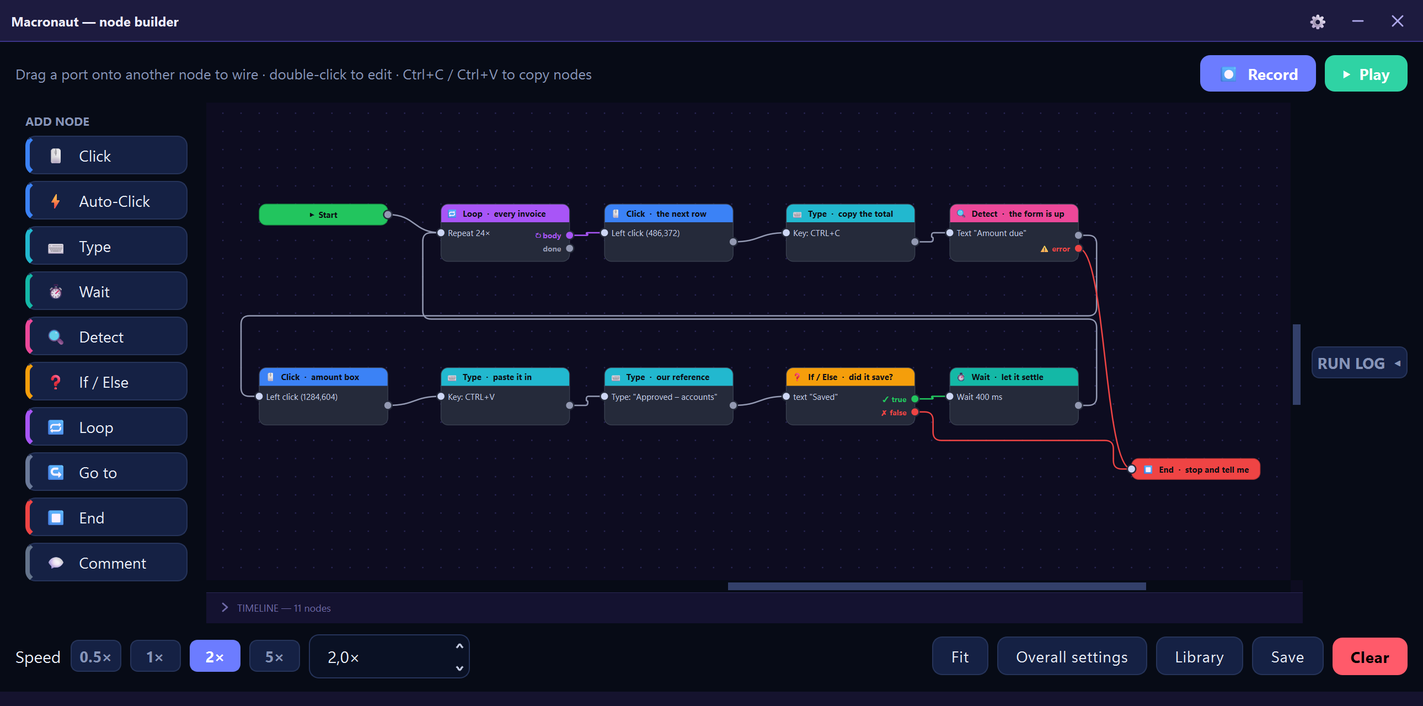
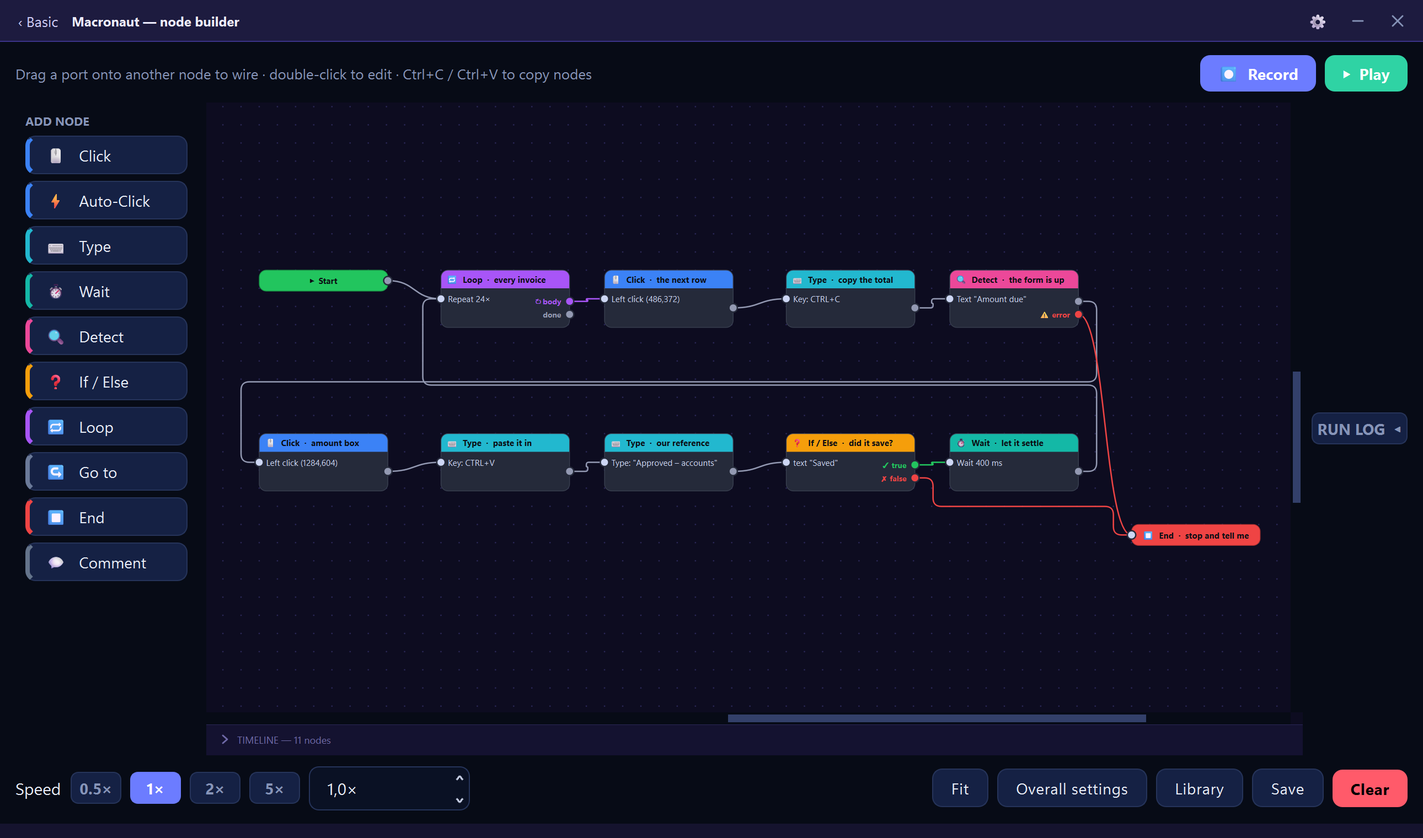
site: rebuild for 2.3.0

diff --git a/index.html b/index.html
@@ -23,7 +23,7 @@
   "name": "Macronaut",
   "applicationCategory": "UtilitiesApplication",
   "operatingSystem": "Windows 10, Windows 11",
-  "softwareVersion": "2.2.0",
+  "softwareVersion": "2.3.0",
   "url": "https://gtjevptje.github.io/Macronaut/",
   "downloadUrl": "https://github.com/gtjevptje/Macronaut/releases/latest/download/Macronaut.exe",
   "description": "Auto clicker and visual macro recorder for Windows. Records clicks and keystrokes into an editable flow, and can watch the screen to decide what to do next.",
@@ -37,7 +37,7 @@
 {
   "@context": "https://schema.org",
   "@type": "FAQPage",
-  "mainEntity": [{"@type": "Question", "name": "Is the free version a trial?", "acceptedAnswer": {"@type": "Answer", "text": "No. It does not expire, it has no watermark, and it does not nag you. Clicking, typing, dragging, scrolling and recording are free permanently, in flows of up to 20 steps. Pro adds the steps that watch the screen and branch on what they find."}},{"@type": "Question", "name": "Do I have to build everything myself?", "acceptedAnswer": {"@type": "Answer", "text": "No. It arrives with 5 automations already built and waiting in the library — an auto-clicker, a clicker that stops after a set number of clicks, one that clicks once every 30 seconds to keep a session awake, one that types a block of text for you, and one that presses a key over and over. None of them need setting up: open one and press Play. Each carries a note on the canvas saying what it does and which part to change."}},{"@type": "Question", "name": "How is this different from AutoHotkey?", "acceptedAnswer": {"@type": "Answer", "text": "AutoHotkey is a scripting language, and a good one — if you are willing to learn it. Macronaut is the same idea without the code: you record what you do, or drag steps onto a canvas and wire them together. The trade is real. AutoHotkey will do things Macronaut cannot; Macronaut you can use this afternoon. There is a side-by-side comparison, including what AutoHotkey still does better."}},{"@type": "Question", "name": "Will it work in a game?", "acceptedAnswer": {"@type": "Answer", "text": "Often, yes — but read the warning further down this page first, because many online games ban automation and can ban your account for it. Technically: some games ignore ordinary injected input, so Macronaut has three input backends, the lowest of which is a kernel driver that looks like a real keyboard. If one does not work, switch to the next."}},{"@type": "Question", "name": "Does it need an internet connection?", "acceptedAnswer": {"@type": "Answer", "text": "Only to check for updates, which you can turn off. Automations run entirely on your machine. Your licence key is verified offline — activating does not tell us anything, because there is nothing for it to tell."}},{"@type": "Question", "name": "What do you collect?", "acceptedAnswer": {"@type": "Answer", "text": "Nothing, unless you opt in to crash reports — and those contain the error, the version, your Windows version and which step was running. Never your scripts, your keystrokes, anything on your screen, or your name. Windows account names are stripped out of file paths before anything is even written to disk."}},{"@type": "Question", "name": "Can I use my licence on more than one computer?", "acceptedAnswer": {"@type": "Answer", "text": "Yes, on every computer you own. There is no activation limit and no machine fingerprinting — those mostly succeed at punishing the honest customer who bought a new laptop. Your e-mail address is inside the key, so please do not post it publicly."}},{"@type": "Question", "name": "Is it a subscription?", "acceptedAnswer": {"@type": "Answer", "text": "No. One payment, and that version and every future update are yours. If that ever changes it will change for new customers, not for you."}},{"@type": "Question", "name": "Why does Windows say it is unsafe?", "acceptedAnswer": {"@type": "Answer", "text": "Because it is not code-signed yet. SmartScreen warns about any new executable it has not seen before, signed or not, and a signing certificate has both a real cost and a procurement lead time. Click “More info” then “Run anyway”. Antivirus software is also occasionally suspicious of anything that sends keystrokes, which is unavoidable for a tool whose entire job is sending keystrokes."}},{"@type": "Question", "name": "What happens to my flows if I do not buy Pro?", "acceptedAnswer": {"@type": "Answer", "text": "Nothing. They stay on your disk, they open, they edit and they save. A flow that uses Pro steps simply will not run until it is licensed — you never lose work, and you can always take the Pro steps out and run the rest."}},{"@type": "Question", "name": "Is there a refund?", "acceptedAnswer": {"@type": "Answer", "text": "Yes. If it does not do what this page says it does, e-mail gerbenvanpoucke0@gmail.com and I will refund you. It is a one-person operation, so you will be talking to the person who wrote it."}},{"@type": "Question", "name": "How do I get in touch?", "acceptedAnswer": {"@type": "Answer", "text": "gerbenvanpoucke0@gmail.com. That is also where a lost licence key gets resent, and where a bug report actually reaches somebody — it is one person, not a ticket queue."}},{"@type": "Question", "name": "What are the system requirements?", "acceptedAnswer": {"@type": "Answer", "text": "Windows 10 or 11, 64-bit. Nothing else — no Python, no .NET, no runtime, no installer. It is a single 78 MB file that you can put anywhere and delete when you are done."}}]
+  "mainEntity": [{"@type": "Question", "name": "I just want an auto-clicker. Do I have to learn the node thing?", "acceptedAnswer": {"@type": "Answer", "text": "No. Macronaut opens on Basic, which is a plain auto-clicker: set the interval, pick a button, choose how many times, press Start. No nodes, no wires, no diagram. The canvas is behind an Advanced link if you ever want it, and Macronaut reopens on whichever of the two you closed it on. Basic is free, permanently."}},{"@type": "Question", "name": "Is the free version a trial?", "acceptedAnswer": {"@type": "Answer", "text": "No. It does not expire, it has no watermark, and it does not nag you. The whole Basic auto-clicker is free and always will be. Clicking, typing, dragging, scrolling and recording are free permanently too, in flows of up to 20 steps. Pro adds the steps that watch the screen and branch on what they find."}},{"@type": "Question", "name": "Do I have to build everything myself?", "acceptedAnswer": {"@type": "Answer", "text": "No. It arrives with 5 automations already built and waiting in the library — an auto-clicker, a clicker that stops after a set number of clicks, one that clicks once every 30 seconds to keep a session awake, one that types a block of text for you, and one that presses a key over and over. None of them need setting up: open one and press Play. Each carries a note on the canvas saying what it does and which part to change."}},{"@type": "Question", "name": "How is this different from AutoHotkey?", "acceptedAnswer": {"@type": "Answer", "text": "AutoHotkey is a scripting language, and a good one — if you are willing to learn it. Macronaut is the same idea without the code: you record what you do, or drag steps onto a canvas and wire them together. The trade is real. AutoHotkey will do things Macronaut cannot; Macronaut you can use this afternoon. There is a side-by-side comparison, including what AutoHotkey still does better."}},{"@type": "Question", "name": "Will it work in a game?", "acceptedAnswer": {"@type": "Answer", "text": "Often, yes — but read the warning further down this page first, because many online games ban automation and can ban your account for it. Technically: some games ignore ordinary injected input, so Macronaut has three input backends, the lowest of which is a kernel driver that looks like a real keyboard. If one does not work, switch to the next."}},{"@type": "Question", "name": "Does it need an internet connection?", "acceptedAnswer": {"@type": "Answer", "text": "Only to check for updates, which you can turn off. Automations run entirely on your machine. Your licence key is verified offline — activating does not tell us anything, because there is nothing for it to tell."}},{"@type": "Question", "name": "What do you collect?", "acceptedAnswer": {"@type": "Answer", "text": "Nothing, unless you opt in to crash reports — and those contain the error, the version, your Windows version and which step was running. Never your scripts, your keystrokes, anything on your screen, or your name. Windows account names are stripped out of file paths before anything is even written to disk."}},{"@type": "Question", "name": "Can I use my licence on more than one computer?", "acceptedAnswer": {"@type": "Answer", "text": "Yes, on every computer you own. There is no activation limit and no machine fingerprinting — those mostly succeed at punishing the honest customer who bought a new laptop. Your e-mail address is inside the key, so please do not post it publicly."}},{"@type": "Question", "name": "Is it a subscription?", "acceptedAnswer": {"@type": "Answer", "text": "No. One payment, and that version and every future update are yours. If that ever changes it will change for new customers, not for you."}},{"@type": "Question", "name": "Why does Windows say it is unsafe?", "acceptedAnswer": {"@type": "Answer", "text": "Because it is not code-signed yet. SmartScreen warns about any new executable it has not seen before, signed or not, and a signing certificate has both a real cost and a procurement lead time. Click “More info” then “Run anyway”. Antivirus software is also occasionally suspicious of anything that sends keystrokes, which is unavoidable for a tool whose entire job is sending keystrokes."}},{"@type": "Question", "name": "What happens to my flows if I do not buy Pro?", "acceptedAnswer": {"@type": "Answer", "text": "Nothing. They stay on your disk, they open, they edit and they save. A flow that uses Pro steps simply will not run until it is licensed — you never lose work, and you can always take the Pro steps out and run the rest."}},{"@type": "Question", "name": "Is there a refund?", "acceptedAnswer": {"@type": "Answer", "text": "Yes. If it does not do what this page says it does, e-mail gerbenvanpoucke0@gmail.com and I will refund you. It is a one-person operation, so you will be talking to the person who wrote it."}},{"@type": "Question", "name": "How do I get in touch?", "acceptedAnswer": {"@type": "Answer", "text": "gerbenvanpoucke0@gmail.com. That is also where a lost licence key gets resent, and where a bug report actually reaches somebody — it is one person, not a ticket queue."}},{"@type": "Question", "name": "What are the system requirements?", "acceptedAnswer": {"@type": "Answer", "text": "Windows 10 or 11, 64-bit. Nothing else — no Python, no .NET, no runtime, no installer. It is a single 78 MB file that you can put anywhere and delete when you are done."}}]
 }
 </script>
 
@@ -142,6 +142,22 @@ li.later em{font-style:normal; opacity:.8}
 .shot{margin:52px auto 0; max-width:100%; height:auto; border:1px solid var(--border);
   border-radius:16px; display:block; box-shadow:0 24px 70px rgba(0,0,0,.55);
   background:var(--panel)}
+/* A shot sitting inside a card rather than under the hero: it is illustrating
+   the paragraph beside it, so it wants a shadow that does not fight the card's
+   own edge. Capped in height because the Basic face is a tall, narrow window
+   and at full width it would tower over everything around it. */
+.shot-inline{margin:0; border-radius:10px; box-shadow:0 8px 24px rgba(0,0,0,.35);
+  max-height:340px; width:auto}
+/* The one card carrying a screenshot spans the grid. Left in a normal cell it
+   made its own row twice as tall as the card beside it, which then sat mostly
+   empty — grid rows match heights, so a tall cell is paid for by its
+   neighbour. */
+.card-wide{grid-column:1/-1; display:flex; gap:26px; align-items:center}
+.card-wide > div{flex:1 1 340px; min-width:0}
+@media (max-width:700px){
+  .card-wide{flex-direction:column; align-items:stretch}
+  .shot-inline{max-height:none; width:100%}
+}
 
 /* ── Sections ────────────────────────────────────────────────────── */
 section{padding:66px 0; border-top:1px solid var(--border)}
@@ -217,9 +233,10 @@ footer .row nav{margin-left:auto; display:flex; gap:20px; flex-wrap:wrap}
 
 <div class="hero wrap">
   <h1>Automate anything on Windows.<br>No code.</h1>
-  <p class="lead">Macronaut records your clicks and keystrokes — or you draw the
-  flow yourself — and then it does the work. In any Windows app, including the
-  ones with no API, no scripting and no plugins.</p>
+  <p class="lead">It opens as a plain <b>auto-clicker</b> — set the interval,
+  press Start. When you need more, one click turns it into a canvas where you
+  record your clicks and keystrokes, or draw the flow yourself. In any Windows
+  app, including the ones with no API, no scripting and no plugins.</p>
   <div class="cta">
     <a class="btn btn-primary btn-lg" href="https://github.com/gtjevptje/Macronaut/releases/latest/download/Macronaut.exe">Download free for Windows</a>
     <a class="btn btn-lg" href="#buy">See what Pro adds</a>
@@ -236,7 +253,7 @@ footer .row nav{margin-left:auto; display:flex; gap:20px; flex-wrap:wrap}
   <p class="under heads-up">Windows will say <b>“Windows protected your PC”</b>
   on first run. It says that for any app without a signing certificate —
   click <b>More info</b>, then <b>Run anyway</b>.</p>
-  <img class="shot" src="assets/hero.png" width="2580" height="1280"
+  <img class="shot" src="assets/hero.png" width="2580" height="1520"
        alt="Macronaut's canvas: a flow that loops over 24 invoices — clicking a row,
             copying the total, waiting for the form to appear, pasting it back in,
             then checking it saved before moving on">
@@ -245,9 +262,11 @@ footer .row nav{margin-left:auto; display:flex; gap:20px; flex-wrap:wrap}
 <section id="what">
   <div class="wrap">
     <h2>If you do the same clicks twenty times a day</h2>
-    <p class="sub">That is the thing this is for. You build the automation as a
-    <b>flow</b> — boxes for the things it does, wires for the order they happen
-    in. There is no scripting language to learn, and nothing to install.</p>
+    <p class="sub">That is the thing this is for. If it really is just clicks,
+    the screen it opens on is all you need. If the job has steps to it, you
+    build it as a <b>flow</b> — boxes for the things it does, wires for the
+    order they happen in. Either way there is no scripting language to learn,
+    and nothing to install.</p>
     <p class="sub">And it arrives with 5 automations already built,
     so the first one you run is one you did not have to make.</p>
     <div class="grid">
@@ -276,6 +295,23 @@ footer .row nav{margin-left:auto; display:flex; gap:20px; flex-wrap:wrap}
     <p class="sub">Everything here is in the app today — this is a description,
     not a roadmap.</p>
     <div class="grid">
+      <div class="card card-wide">
+        <div>
+          <h3>Two faces, and you pick</h3>
+          <p><b>Basic</b> is an auto-clicker and nothing else: interval, mouse
+          button, how many times, where. That is the whole screen, and it is
+          free permanently.</p>
+          <p><b>Advanced</b> is the node canvas, behind one link. Macronaut
+          reopens on whichever of the two you closed it on, and each remembers
+          its own size and place on screen — Basic parked in a corner beside
+          the window it is clicking, Advanced as big as you like.</p>
+        </div>
+        <img class="shot shot-inline" src="assets/basic.png"
+             width="1000" height="1086" loading="lazy"
+             alt="Macronaut's Basic face: click interval in hours, minutes,
+                  seconds and milliseconds, a left/right mouse button choice,
+                  repeat a set number of times or until stopped, cursor position,
+                  and a green Start button"></div>
       <div class="card">
         <h3>A canvas, not a script</h3>
         <p>Click, Move, Drag, Scroll, Type text, Key press, Wait, Detect,
@@ -321,6 +357,7 @@ footer .row nav{margin-left:auto; display:flex; gap:20px; flex-wrap:wrap}
         <div class="name">Free</div>
         <div class="price">€0<span> · forever</span></div>
         <ul>
+          <li><b>The whole Basic auto-clicker</b></li>
           <li>Click, move, drag and scroll</li>
           <li>Type text and press keys, including chords</li>
           <li>Record what you do into an editable flow</li>
@@ -360,7 +397,8 @@ footer .row nav{margin-left:auto; display:flex; gap:20px; flex-wrap:wrap}
 <section id="faq">
   <div class="wrap">
     <h2>Questions</h2>
-    <div class="faq"><details><summary>Is the free version a trial?</summary><div class="body"><p>No. It does not expire, it has no watermark, and it does not nag you. Clicking, typing, dragging, scrolling and recording are free permanently, in flows of up to 20 steps. Pro adds the steps that watch the screen and branch on what they find.</p></div></details>
+    <div class="faq"><details><summary>I just want an auto-clicker. Do I have to learn the node thing?</summary><div class="body"><p>No. Macronaut opens on Basic, which is a plain auto-clicker: set the interval, pick a button, choose how many times, press Start. No nodes, no wires, no diagram. The canvas is behind an Advanced link if you ever want it, and Macronaut reopens on whichever of the two you closed it on. Basic is free, permanently.</p></div></details>
+<details><summary>Is the free version a trial?</summary><div class="body"><p>No. It does not expire, it has no watermark, and it does not nag you. The whole Basic auto-clicker is free and always will be. Clicking, typing, dragging, scrolling and recording are free permanently too, in flows of up to 20 steps. Pro adds the steps that watch the screen and branch on what they find.</p></div></details>
 <details><summary>Do I have to build everything myself?</summary><div class="body"><p>No. It arrives with 5 automations already built and waiting in the library — an auto-clicker, a clicker that stops after a set number of clicks, one that clicks once every 30 seconds to keep a session awake, one that types a block of text for you, and one that presses a key over and over. None of them need setting up: open one and press Play. Each carries a note on the canvas saying what it does and which part to change.</p></div></details>
 <details><summary>How is this different from AutoHotkey?</summary><div class="body"><p>AutoHotkey is a scripting language, and a good one — if you are willing to learn it. Macronaut is the same idea without the code: you record what you do, or drag steps onto a canvas and wire them together. The trade is real. AutoHotkey will do things Macronaut cannot; Macronaut you can use this afternoon. There is <a href="autohotkey-alternative.html">a side-by-side comparison</a>, including what AutoHotkey still does better.</p></div></details>
 <details><summary>Will it work in a game?</summary><div class="body"><p>Often, yes — but read the warning further down this page first, because many online games ban automation and can ban your account for it. Technically: some games ignore ordinary injected input, so Macronaut has three input backends, the lowest of which is a kernel driver that looks like a real keyboard. If one does not work, switch to the next.</p></div></details>
@@ -395,7 +433,7 @@ footer .row nav{margin-left:auto; display:flex; gap:20px; flex-wrap:wrap}
 
 <footer>
   <div class="wrap row">
-    <div>Macronaut 2.2.0 · © 2026 Gerben van Poucke ·
+    <div>Macronaut 2.3.0 · © 2026 Gerben van Poucke ·
       <a href="mailto:gerbenvanpoucke0@gmail.com">gerbenvanpoucke0@gmail.com</a></div>
     <nav>
       <a href="https://github.com/gtjevptje/Macronaut">GitHub</a>

diff --git a/autohotkey-alternative.html b/autohotkey-alternative.html
@@ -117,6 +117,22 @@ li.later em{font-style:normal; opacity:.8}
 .shot{margin:52px auto 0; max-width:100%; height:auto; border:1px solid var(--border);
   border-radius:16px; display:block; box-shadow:0 24px 70px rgba(0,0,0,.55);
   background:var(--panel)}
+/* A shot sitting inside a card rather than under the hero: it is illustrating
+   the paragraph beside it, so it wants a shadow that does not fight the card's
+   own edge. Capped in height because the Basic face is a tall, narrow window
+   and at full width it would tower over everything around it. */
+.shot-inline{margin:0; border-radius:10px; box-shadow:0 8px 24px rgba(0,0,0,.35);
+  max-height:340px; width:auto}
+/* The one card carrying a screenshot spans the grid. Left in a normal cell it
+   made its own row twice as tall as the card beside it, which then sat mostly
+   empty — grid rows match heights, so a tall cell is paid for by its
+   neighbour. */
+.card-wide{grid-column:1/-1; display:flex; gap:26px; align-items:center}
+.card-wide > div{flex:1 1 340px; min-width:0}
+@media (max-width:700px){
+  .card-wide{flex-direction:column; align-items:stretch}
+  .shot-inline{max-height:none; width:100%}
+}
 
 /* ── Sections ────────────────────────────────────────────────────── */
 section{padding:66px 0; border-top:1px solid var(--border)}
@@ -214,8 +230,9 @@ article p, article li{max-width:70ch}
     <h1>An AutoHotkey alternative you don&rsquo;t have to write code in</h1>
     <p class="lead">AutoHotkey is a programming language. That is its strength
     and it is also the reason most people who need it never end up using it.
-    Macronaut does the common half of the same job by recording what you do,
-    or by letting you drag the steps onto a canvas and wire them together.</p>
+    Macronaut does the common half of the same job with a screen of numbers you
+    fill in — or, when a job needs more than that, by recording what you do and
+    letting you wire the steps together on a canvas.</p>
 
     <div class="verdict">
       <b>The short version.</b> If you are comfortable writing code, AutoHotkey
@@ -249,12 +266,14 @@ DoClick() {
       </div>
       <div>
         <h3>Macronaut</h3>
-        <p style="margin-top:0">Open the library, pick <b>Auto-clicker</b>,
-        press&nbsp;Play. F8 already starts and stops it.</p>
-        <p>To change the speed, double-click the node and type a number. To
-        make it stop after 100 clicks, fill in one more box.</p>
-        <p class="sub" style="margin-bottom:0">It arrives with that flow
-        already built, along with four others.</p>
+        <p style="margin-top:0">Open it. That screen <em>is</em> an
+        auto-clicker — type <b>100</b> in the ms box and press
+        <b>Start</b>. F8 starts and stops it too.</p>
+        <p>To make it stop after 100 clicks, tick <b>Repeat</b> and type 100.
+        There is no file to save and nothing to run.</p>
+        <p class="sub" style="margin-bottom:0">The node canvas on the left of
+        this comparison is the <em>other</em> half of Macronaut, one click away
+        under <b>Advanced</b>, for when a job needs more than a timer.</p>
       </div>
     </div>
 
@@ -282,8 +301,10 @@ DoClick() {
 
     <h2>What Macronaut does better</h2>
     <ul>
-      <li><b>Nothing to learn first.</b> Press Record, do the thing once, press
-      stop. What you did is now a flow you can edit, reorder and re-run.</li>
+      <li><b>Nothing to learn first.</b> The window it opens on is an
+      auto-clicker with the numbers already on it. Or press Record, do the
+      thing once, press stop — what you did is now a flow you can edit,
+      reorder and re-run.</li>
       <li><b>You can see it.</b> A flow is a diagram, so a colleague can read
       it, and so can you in six months. Debugging is watching which node
       lights up.</li>
@@ -330,7 +351,7 @@ DoClick() {
 
 <footer>
   <div class="wrap row">
-    <div>Macronaut 2.2.0 · © 2026 Gerben van Poucke ·
+    <div>Macronaut 2.3.0 · © 2026 Gerben van Poucke ·
       <a href="mailto:gerbenvanpoucke0@gmail.com">gerbenvanpoucke0@gmail.com</a></div>
     <nav>
       <a href="https://gtjevptje.github.io/Macronaut/">Home</a>

diff --git a/README.md b/README.md
@@ -27,9 +27,26 @@ Automate repetitive tasks in any Windows app — draw the flow, press play.</p>
 ## What it is
 
 Macronaut automates clicking, typing and waiting in **any** Windows program —
-including ones with no API, no scripting support and no plugins. You build the
-automation as a **flow**: boxes for the things it does, wires for the order they
-happen in. No scripting language to learn.
+including ones with no API, no scripting support and no plugins.
+
+It has **two faces, and you pick which one you get.**
+
+**Basic** is a plain auto-clicker. Click interval, which button, how many times,
+where — set the numbers, press Start. It is the layout anyone who has used an
+auto-clicker already knows, and nothing about it involves a node, a flow or a
+diagram. If that is all you came for, you are done on this screen.
+
+**Advanced** is the node canvas, one click away: boxes for the things it does,
+wires for the order they happen in. Record yourself once and it lands there as
+editable steps, or draw it yourself. No scripting language to learn.
+
+Macronaut opens on whichever one you closed it on, and each remembers its own
+size and position — Basic parked in a corner beside the window it is clicking,
+Advanced as big as you like.
+
+<p align="center"><img alt="Macronaut's Basic face — an auto-clicker with click
+interval, mouse button, repeat count, cursor position and a Start button"
+src="assets/basic.png" width="440"></p>
 
 If you have ever thought *"I do this exact sequence twenty times a day"*, that
 is the thing Macronaut is for.
@@ -47,9 +64,10 @@ library and press Play.
 ## Free or Pro
 
 **The free tier is a complete auto-clicker, not a trial.** No timer, no
-watermark, no expiry, no account, no nagging. Clicking, typing, dragging,
-scrolling and recording are free permanently, in flows of up to
-20 steps.
+watermark, no expiry, no account, no nagging. **The whole Basic face is free
+and always will be** — that is the tier's reason to exist, not a sample of it.
+Clicking, typing, dragging, scrolling and recording are free permanently too,
+in flows of up to 20 steps.
 
 **Pro** — €9.99, once — adds the half that makes it an automation tool
 rather than a clicker: the steps that **look at the screen** and the steps that
@@ -57,6 +75,7 @@ rather than a clicker: the steps that **look at the screen** and the steps that
 
 | | Free | Pro |
 |---|:---:|:---:|
+| **Basic — the plain auto-clicker** | ✅ | ✅ |
 | Click, move, drag, scroll | ✅ | ✅ |
 | Type text, press keys and chords | ✅ | ✅ |
 | Record what you do into an editable flow | ✅ | ✅ |
@@ -77,7 +96,16 @@ just will not *run* until it is licensed. You never lose work.
 
 ## What it can do
 
-**Build a flow visually**
+**Just click something, over and over** *(the Basic face)*
+- Interval in hours / minutes / seconds / milliseconds, or **Max** for as fast
+  as the machine will go
+- Left or right button, at the cursor or at a fixed X·Y you can pick off screen
+- Repeat a set number of times, until you stop it, or until a stop-after timer
+  runs out
+- Human mode jitters the cursor so the movement is not machine-perfect
+- Start and Stop, plus the same global hotkey the rest of the app uses
+
+**Build a flow visually** *(the Advanced face)*
 - Drop in **Click**, **Move**, **Drag**, **Scroll**, **Type text**, **Key press**,
   **Wait**, **Comment** — and, with Pro, **Detect**, **If / Else**, **Loop** and **Go to**
 - Wire them together and press ▶ — the running step lights up as it goes
